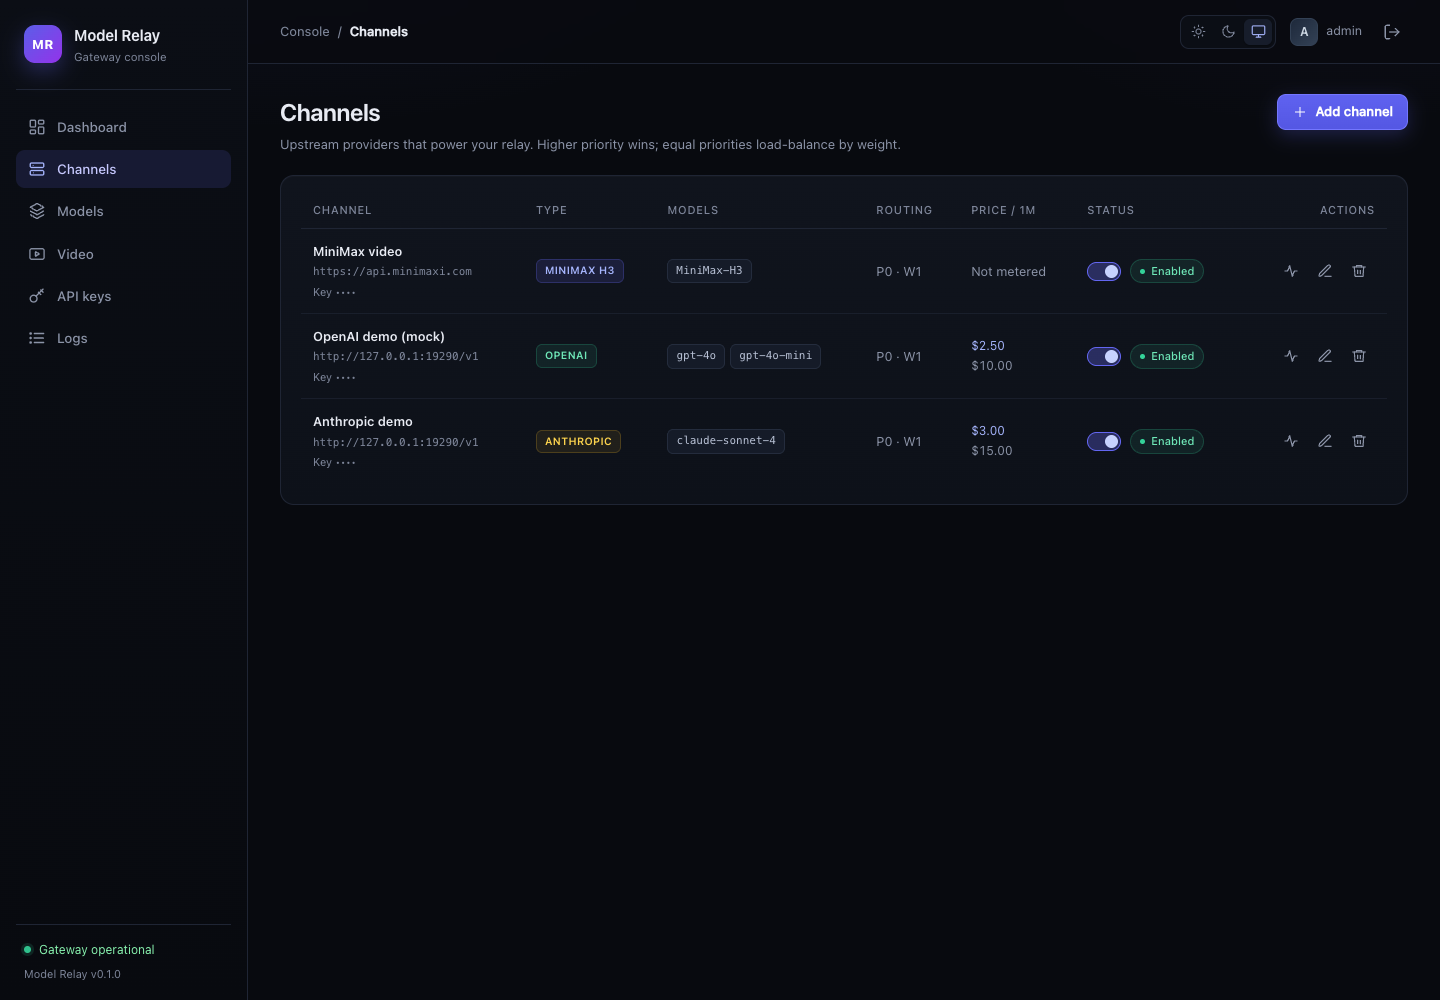
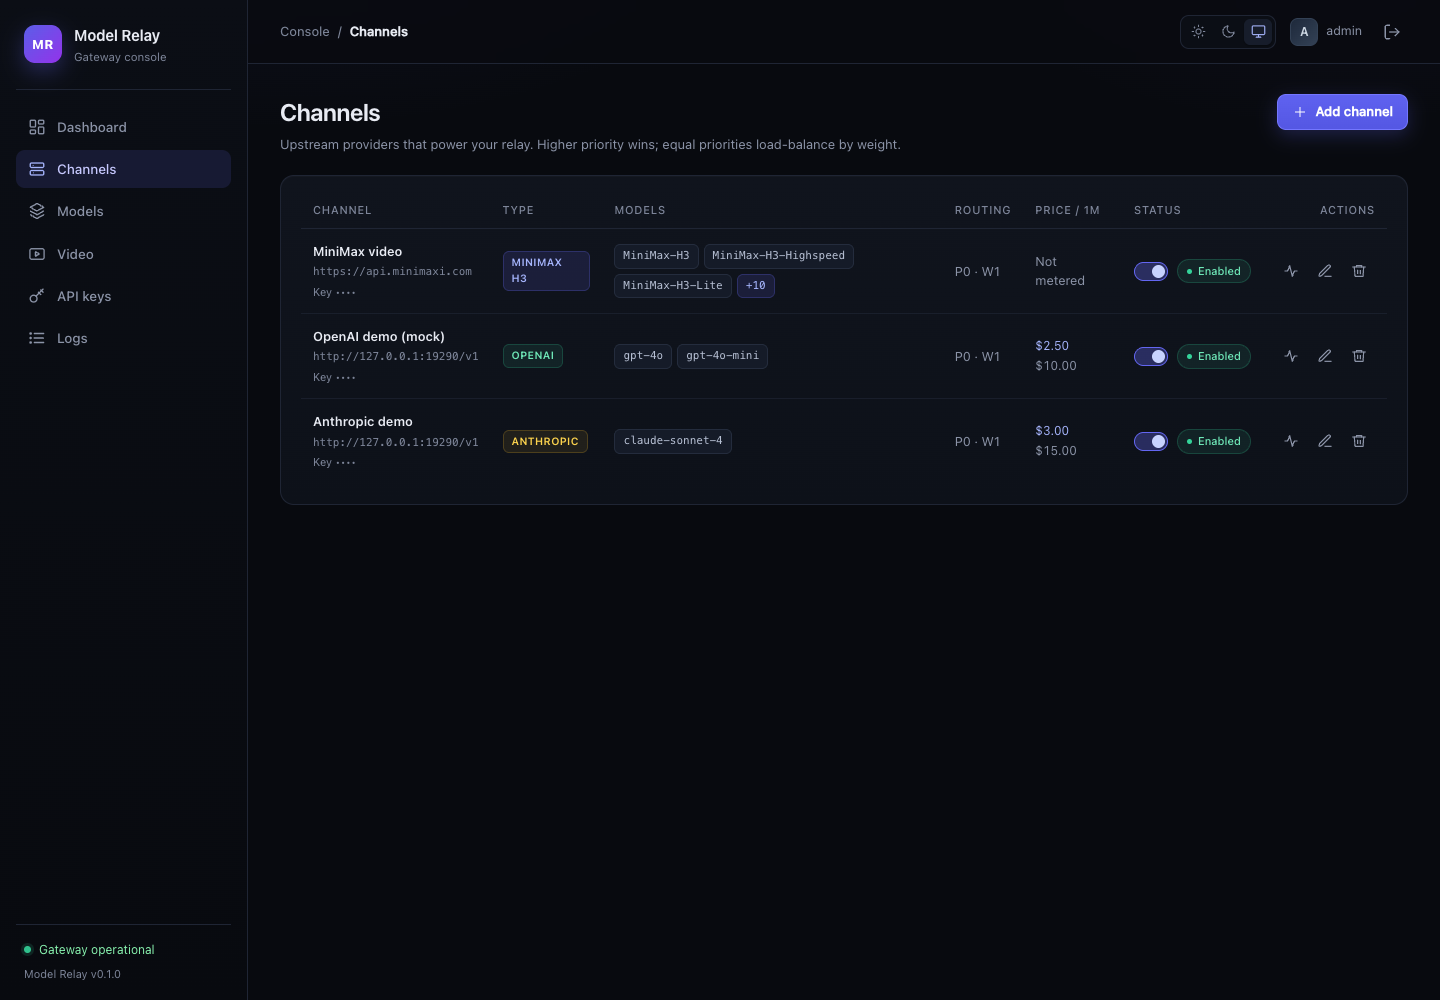
feat: fetch MiniMax models including the H3 video family
Enable model import for MiniMax channels through the OpenAI-compatible /v1/models endpoint. MiniMax omits video models from that list, so add the H3 family (H3, Highspeed, Lite, Max) to the imported catalog; the Video page offers only H3-family models and the channel hints cover both MiniMax platform base URLs.

diff --git a/web/src/pages/Channels.tsx b/web/src/pages/Channels.tsx
@@ -476,7 +476,7 @@ export default function Channels() {
             wide
             hint={
               form.type === 'minimax'
-                ? 'MiniMax API root, e.g. https://api.minimax.io'
+                ? 'MiniMax API root, e.g. https://api.minimax.io or https://api.minimaxi.com'
                 : 'Include the API version path, e.g. https://api.openai.com/v1'
             }
           >
@@ -509,26 +509,24 @@ export default function Channels() {
             htmlFor="channel-models"
             hint={
               form.type === 'minimax'
-                ? 'MiniMax video models, e.g. MiniMax-H3.'
+                ? 'MiniMax models, e.g. MiniMax-H3. Fetch the live list and keep your manual entries.'
                 : 'Upstream model names, separated by commas or new lines. Importing keeps your manual entries.'
             }
             action={
-              form.type === 'minimax' ? undefined : (
-                <button
-                  type="button"
-                  className="btn btn-ghost btn-xs"
-                  onClick={() => void fetchUpstreamModels()}
-                  disabled={fetchingModels || !canFetchModels}
-                  title={
-                    canFetchModels
-                      ? 'Fetch the model list from the upstream provider'
-                      : 'Enter the base URL and API key first'
-                  }
-                >
-                  {fetchingModels ? <Spinner size={13} /> : <Icon name="refresh" size={13} />}
-                  {fetchingModels ? 'Fetching…' : 'Fetch models'}
-                </button>
-              )
+              <button
+                type="button"
+                className="btn btn-ghost btn-xs"
+                onClick={() => void fetchUpstreamModels()}
+                disabled={fetchingModels || !canFetchModels}
+                title={
+                  canFetchModels
+                    ? 'Fetch the model list from the upstream provider'
+                    : 'Enter the base URL and API key first'
+                }
+              >
+                {fetchingModels ? <Spinner size={13} /> : <Icon name="refresh" size={13} />}
+                {fetchingModels ? 'Fetching…' : 'Fetch models'}
+              </button>
             }
           >
             <textarea
@@ -551,7 +549,7 @@ export default function Channels() {
               rows={2}
               value={form.mapping}
               onChange={(event) => setField('mapping', event.target.value)}
-              placeholder="claude-sonnet=claude-3-7-sonnet-latest"
+              placeholder={form.type === 'minimax' ? 'my-video=MiniMax-H3' : 'claude-sonnet=claude-3-7-sonnet-latest'}
             />
           </FormField>
           {modelsError ? (

diff --git a/web/src/pages/Videos.tsx b/web/src/pages/Videos.tsx
@@ -18,6 +18,10 @@ function resolutionOptionsFor(model: string): string[] {
   return ['768P', '2K']
 }
 
+function isVideoModel(model: ModelInfo): boolean {
+  return model.types.includes('minimax') && /^MiniMax-H3(?:$|[-_.])/i.test(model.id)
+}
+
 function statusLabel(status: VideoTaskStatus): string {
   switch (status) {
     case 'queued':
@@ -121,7 +125,7 @@ export default function Videos() {
   const [firstFrame, setFirstFrame] = useState('')
   const [frameName, setFrameName] = useState('')
 
-  const videoModels = useMemo(() => models.filter((item) => item.types.includes('minimax')), [models])
+  const videoModels = useMemo(() => models.filter(isVideoModel), [models])
   const resolutionOptions = resolutionOptionsFor(model)
   const pending = tasks.some(
     (task) =>
@@ -276,8 +280,8 @@ export default function Videos() {
             {videoModels.length === 0 ? (
               <EmptyState
                 icon="video"
-                title="No MiniMax video channel"
-                description="Add a channel with the MiniMax H3 protocol and a MiniMax-H3 model, then come back here to generate videos."
+                title="No MiniMax-H3 model"
+                description="Add or import a MiniMax-H3 model on a MiniMax channel, then come back here to generate videos. Other MiniMax model families are not part of this video workflow yet."
                 action={
                   <Link className="btn btn-primary" to="/channels">
                     <Icon name="plus" size={16} /> Add a channel

diff --git a/internal/gateway/models.go b/internal/gateway/models.go
@@ -19,6 +19,16 @@ const (
 	maxModelsBody      = 4 << 20
 )
 
+// MiniMax's OpenAI-compatible model list only returns language models, but the
+// V2 video endpoint also accepts the H3 family. Add those so the imported
+// catalog is complete for the video console.
+var minimaxVideoModels = []string{
+	"MiniMax-H3",
+	"MiniMax-H3-Highspeed",
+	"MiniMax-H3-Lite",
+	"MiniMax-H3-Max",
+}
+
 // FetchModels asks an upstream provider for the models it serves.
 //
 // OpenAI-compatible providers expose GET {base}/models with a bearer token.
@@ -38,6 +48,14 @@ func (g *Gateway) FetchModels(ctx context.Context, channelType, baseURL, apiKey 
 	afterID := ""
 	for page := 0; page < maxModelsPages; page++ {
 		endpoint := base + "/models"
+		if channelType == "minimax" {
+			// MiniMax exposes its OpenAI-compatible model list below /v1 while
+			// its video tasks live at the API root.
+			endpoint = base + "/v1/models"
+			if strings.HasSuffix(base, "/v1") {
+				endpoint = base + "/models"
+			}
+		}
 		if afterID != "" {
 			endpoint += "?after_id=" + url.QueryEscape(afterID)
 		}
@@ -81,6 +99,15 @@ func (g *Gateway) FetchModels(ctx context.Context, channelType, baseURL, apiKey 
 			break
 		}
 		afterID = lastID
+	}
+	if channelType == "minimax" {
+		for _, id := range minimaxVideoModels {
+			if seen[id] {
+				continue
+			}
+			seen[id] = true
+			models = append(models, id)
+		}
 	}
 	sort.Strings(models)
 	return models, nil

diff --git a/internal/gateway/models_test.go b/internal/gateway/models_test.go
@@ -33,6 +33,29 @@ func TestFetchModelsOpenAI(t *testing.T) {
 	}
 }
 
+func TestFetchModelsMinimax(t *testing.T) {
+	env := newTestEnv(t)
+	var gotPath, gotAuth string
+	upstream := httptest.NewServer(http.HandlerFunc(func(w http.ResponseWriter, r *http.Request) {
+		gotPath, gotAuth = r.URL.Path, r.Header.Get("Authorization")
+		w.Header().Set("Content-Type", "application/json")
+		_, _ = io.WriteString(w, `{"object":"list","data":[{"id":"MiniMax-M3"},{"id":"MiniMax-H3"},{"id":"MiniMax-H3-Max"}]}`)
+	}))
+	defer upstream.Close()
+
+	models, err := env.gw.FetchModels(context.Background(), "minimax", upstream.URL, "sk-mini")
+	if err != nil {
+		t.Fatalf("fetch models: %v", err)
+	}
+	if gotPath != "/v1/models" || gotAuth != "Bearer sk-mini" {
+		t.Fatalf("upstream request path=%q auth=%q", gotPath, gotAuth)
+	}
+	want := []string{"MiniMax-H3", "MiniMax-H3-Highspeed", "MiniMax-H3-Lite", "MiniMax-H3-Max", "MiniMax-M3"}
+	if !reflect.DeepEqual(models, want) {
+		t.Fatalf("models = %v, want %v", models, want)
+	}
+}
+
 func TestFetchModelsAnthropicPagination(t *testing.T) {
 	env := newTestEnv(t)
 	var afterIDs []string

diff --git a/internal/server/server_test.go b/internal/server/server_test.go
@@ -276,6 +276,17 @@ func TestFetchUpstreamModelsEndpoint(t *testing.T) {
 		t.Fatalf("unexpected models: %v", fetched.Models)
 	}
 
+	// MiniMax video channels use the provider's OpenAI-compatible model list.
+	resp, body = doJSON(t, client, http.MethodPost, ts.URL+"/api/channels/upstream-models", map[string]any{
+		"type": "minimax", "base_url": upstream.URL, "api_key": "upstream-key",
+	}, nil)
+	if resp.StatusCode != http.StatusOK {
+		t.Fatalf("fetch minimax models status %d: %s", resp.StatusCode, body)
+	}
+	if err := json.Unmarshal(body, &fetched); err != nil || len(fetched.Models) == 0 {
+		t.Fatalf("decode minimax models: %v (%s)", err, body)
+	}
+
 	// A new channel needs its key in the request.
 	resp, body = doJSON(t, client, http.MethodPost, ts.URL+"/api/channels/upstream-models", map[string]any{
 		"type": "openai", "base_url": upstream.URL + "/v1",

diff --git a/internal/server/handlers_admin.go b/internal/server/handlers_admin.go
@@ -130,8 +130,8 @@ func (s *Server) handleFetchUpstreamModels(w http.ResponseWriter, r *http.Reques
 	if in.Type == "" {
 		in.Type = "openai"
 	}
-	if in.Type != "openai" && in.Type != "anthropic" {
-		writeErr(w, http.StatusBadRequest, "type must be openai or anthropic")
+	if in.Type != "openai" && in.Type != "anthropic" && in.Type != "minimax" {
+		writeErr(w, http.StatusBadRequest, "type must be openai, anthropic or minimax")
 		return
 	}
 	baseURL, err := normalizeBaseURL(in.BaseURL)

diff --git a/README.md b/README.md
@@ -60,7 +60,7 @@ Clients keep using the OpenAI chat format; the gateway translates requests and A
 
 ### MiniMax-H3 video generation
 
-Add a channel with protocol **MiniMax H3 (video)**, base URL `https://api.minimax.io` and model `MiniMax-H3` (or one of the H3 variants). The API key is sent as `Authorization: Bearer …` to the MiniMax V2 video endpoints. Video channels are separate from chat routing, so video models are not exposed by `/v1/chat/completions` or `/v1/models`.
+Add a channel with protocol **MiniMax H3 (video)**, base URL `https://api.minimax.io` (or `https://api.minimaxi.com` for the China platform) and model `MiniMax-H3` (or one of the H3 variants). The API key is sent as `Authorization: Bearer …` to the MiniMax V2 video endpoints. Video channels are separate from chat routing, so video models are not exposed by `/v1/chat/completions` or `/v1/models`. The provider's OpenAI-compatible model list omits video models, so **Fetch models** adds the H3 family (`MiniMax-H3`, `MiniMax-H3-Highspeed`, `MiniMax-H3-Lite`, `MiniMax-H3-Max`) alongside the language models it returns; the **Video** page lists only the H3 family.
 
 Open **Video** in the console to:
 
@@ -108,7 +108,7 @@ Changing `SECRET_KEY` invalidates admin sessions and makes existing channel keys
 | --- | --- |
 | ![API keys](docs/screenshots/tokens.png) | ![Request logs](docs/screenshots/logs.png) |
 
-| Video generation | MiniMax H3 channel |
+| Video generation | MiniMax model import |
 | --- | --- |
 | ![Video generation](docs/screenshots/video-generation.png) | ![MiniMax H3 channel](docs/screenshots/video-channel.png) |
 
